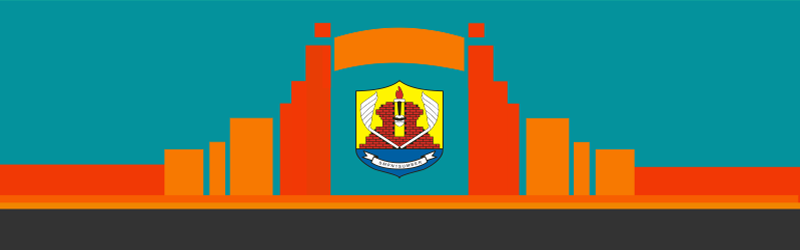
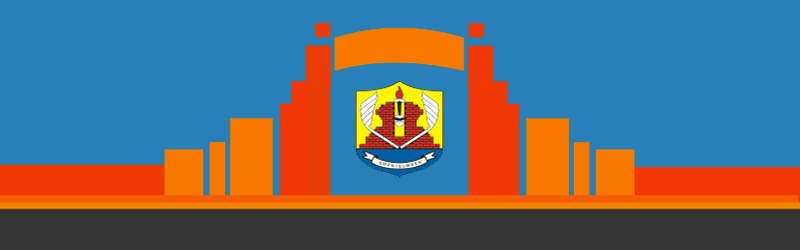
versi 1.5

diff --git a/style/style.css b/style/style.css
@@ -22,28 +22,20 @@ body {
 	padding-right: 15px;
 }
 .btn-info{
-	background-color: #04929c;
+	background-color: #2980b9;
 	border: 0px;
 	transition: 0.4s;
 }
 .btn-info:hover{
-	background-color: rgba(4,146,156,0.8);
+	background-color: rgba(41,128,185,0.8);
 	border: 0px;
 	transition: 0.4s;
 }
 .navbar-inverse{
-	background-color: #04929c;
+	background-color: #2980b9;
 	color: #fff;
 	border-radius: 0px;
 	border-color: transparent;
-}
-.navbar-inverse .navbar-nav > .active > a:hover{
-	background-color: #00695C;
-}
-.navbar-inverse .navbar-nav > .active > a,
-.navbar-inverse .navbar-nav > .active > a:focus{
-	background-color: #00695C;
-	color: #fff;
 }
 .navbar-inverse .navbar-nav > li > a,
 .navbar-inverse .navbar-brand{
@@ -70,11 +62,11 @@ body {
   background-color: #fff;
 }
 .navbar-inverse .navbar-nav .open .dropdown-menu li>a:hover{
-	background-color: #04929c;
-	color: #fff;
+	background-color: #fff; 
+	color: #2980b9;
 }
 .footer{
-	background-color: #04929c;
+	background-color: #2980b9;
 	color: #fff;
 	width: 100%;
 	display: inline-block;
@@ -87,6 +79,7 @@ body {
 }
 h4.title{
 	color: #494949;
+	font-weight: bolder;
 }
 article img{
 	width: 100%;
@@ -100,7 +93,7 @@ article p.post-body{
 
 article h4.post-title a{
 	display: block;
-	font-weight: bold;
+	font-weight: lighter;
 	text-decoration: none;
 	color: #494949;
 }
@@ -123,12 +116,12 @@ article h4.post-title a{
   line-height: 25px;
   text-decoration: none;
   color: #000;
-  border-left: 10px solid #04929c;
+  border-left: 10px solid #2980b9;
   transition: 0.4s;
 }
 .recent ul > li > a:hover{
   transition: 0.2s;
-  border-left:  20px solid #04929c;
+  border-left:  20px solid #2980b9;
 }
 .recent ul > li:hover{
   text-decoration: none;
@@ -168,7 +161,7 @@ ul.dropdown-menu > li > a{
 	list-style: none;
 }
 .glyphicon-calendar{
-	color: #04929c;
+	color: #2980b9;
 }
 .carousel-inner > .item > img {
 	width: 100%;
@@ -183,7 +176,8 @@ ul.dropdown-menu > li > a{
 	padding:0px 0px;
 }
 .carousel-caption{
-	background: #04929c;
+	background-color: rgba(41,128,185,0.8);
+	border-radius: 5px;
 }
 @media (max-width: 767px){
 	.carousel-caption{

diff --git a/assets/home.php b/assets/home.php
@@ -4,24 +4,24 @@
 			<div class="panel-body">
 				<h4 class="post-title"><a href="">Upacara pembukaan MPLS di SMPN 1 Sumber Tahun Pelajaran 2016-2017</a></h4>
 				<p><span class="glyphicon glyphicon-calendar"></span> Senin, 18-Jul-2016 </p>
-				<img src="style/img/MPLS-2016-850x450.jpg">
-				<p class="post-body">Sumber – 18/07/2016 Memasuki hari pertama sekolah-sekolah di Kabupaten Cirebon serentak menyelenggarakan Masa Pengenalan Lingkungan Sekolah (MPLS) pada tahun ajaran ... <a href="">Lihat Selengkapnya ></a></p>
+				<img class="img-thumbnail" src="style/img/MPLS-2016-850x450.jpg">
+				<p class="post-body">Sumber – 18/07/2016 Memasuki hari pertama sekolah-sekolah di Kabupaten Cirebon serentak menyelenggarakan Masa Pengenalan Lingkungan Sekolah (MPLS) pada tahun ajaran ... <br><a class="btn btn-sm btn-info" href="">Lihat Selengkapnya ></a></p>
 			</div>
 		</div>
 		<div class="post panel">
 			<div class="panel-body">
-				<h4 class="post-title">Pembagian Raport Kelas 7, 8 dan Rapat Orang Tua Siswa</h4>
+				<h4 class="post-title"><a href="">Pembagian Raport Kelas 7, 8 dan Rapat Orang Tua Siswa</a></h4>
 				<p><span class="glyphicon glyphicon-calendar"></span> Senin, 25-Jun-2016 </p>
-				<img src="style/img/pembagian-raport.jpg-850x450.jpg">
-				<p class="post-body">Sumber Kab.Cirebon – Sabtu, (25 Juni 2016) Seluruh sekolah mulai dari tingkat Sekolah Dasar (SD), Sekolah Menengah Pertama (SMP) dan Sekolah Menengah Atas (SMA) sederajat ... <a href="">Lihat Selengkapnya ></a></p>
+				<img class="img-thumbnail" src="style/img/pembagian-raport.jpg-850x450.jpg">
+				<p class="post-body">Sumber Kab.Cirebon – Sabtu, (25 Juni 2016) Seluruh sekolah mulai dari tingkat Sekolah Dasar (SD), Sekolah Menengah Pertama (SMP) dan Sekolah Menengah Atas (SMA) sederajat ... <br><a  class="btn btn-sm btn-info" href="">Lihat Selengkapnya ></a></p>
 			</div>
 		</div>
 		<div class="post panel">
 			<div class="panel-body">
-				<h4 class="post-title">SMPN 1 Sumber mengadakan Pesantren Kilat</h4>
+				<h4 class="post-title"><a href="">SMPN 1 Sumber mengadakan Pesantren Kilat</a></h4>
 				<p><span class="glyphicon glyphicon-calendar"></span> Senin, 16-Jun-2016 </p>
-				<img src="style/img/pesantren-kilat.jpg-600x300.jpg">
-				<p class="post-body">Dalam rangka meningkatkan keimanan serta ketaqwaan terhadap Tuhan Yang Maha Esa sekaligus bagian pembelajaran kepada siswa siswi dan bersamaan dengan suasana Bulan Ramadhan, SMP Negeri 1 Sumber belum lama ini mengadakan kegiatan Pesantren Kilat. Kegiatan ini dilakukan dari tanggal 13 – 16 Juni 2016 bekerja sama ... <a href="">Lihat Selengkapnya ></a></p>
+				<img class="img-thumbnail" src="style/img/pesantren-kilat.jpg-600x300.jpg">
+				<p class="post-body">Dalam rangka meningkatkan keimanan serta ketaqwaan terhadap Tuhan Yang Maha Esa sekaligus bagian pembelajaran kepada siswa siswi dan bersamaan dengan suasana Bulan Ramadhan ... <br><a class="btn btn-sm btn-info" href="">Lihat Selengkapnya ></a></p>
 			</div>
 		</div>
 	</article>

diff --git a/index.php b/index.php
@@ -1,7 +1,7 @@
 <?php require"assets/header.php" ?>
 	<div class="container-fluid content">
 		<div class="sideleft col-md-3">
-			<div class="panel">
+			<!-- <div class="panel">
 				<div class="panel-heading">
 					<h4 class="title"><b>LOGIN</b></h4>
 					</div>
@@ -19,12 +19,24 @@
 							</div>
 						</form>
 				</div>
+			</div> -->
+			<div class="panel">
+				<div class="panel-body">
+					<h4 class="title">AGENDA SEKOLAH</h4>
+				</div>
 			</div>
 			<div class="panel">
 				<div class="panel-body">
-					<h4 class="title"><b>KEPALA SEKOLAH</b></h4>
-					<img class="kepsek" src="style/img/kepsek.jpg" alt="">
-					<p>Sosok yang satu ini sudah tidak asing di lingkungan kampus SMP Negeri 1 Sumber. <b>Dr. H. Mashuri, M.Pd. </b> supel dalam berkomunikasi membuat beliau mudah dikenal baik oleh siswa-siswi maupun urang tua sisw <a href="#">Lihat selengkapnya ></a></p>
+					<h4 class="title">KEGIATAN TERBARU</h4>
+				</div>
+			</div>
+			<div class="panel">
+				<div class="panel-body">
+					<h4 class="title">KEPALA SEKOLAH</h4>
+					<div class="recent">
+						<img class="kepsek" src="style/img/kepsek.jpg" alt="">
+						<p>Sosok yang satu ini sudah tidak asing di lingkungan kampus SMP Negeri 1 Sumber. <b>Dr. H. Mashuri, M.Pd. </b> supel dalam berkomunikasi membuat beliau mudah dikenal baik oleh siswa-siswi maupun urang tua sisw <br><a href="#" class="btn btn-info">Lihat selengkapnya ></a></p>
+					</div>
 				</div>
 			</div>	
 		</div>
@@ -32,7 +44,7 @@
 		<div  class="sideright col-md-3">
 			<div class="panel">
 				<div class="panel-body">
-					<h4 class="title"><b>RECENT POST</b></h4>
+					<h4 class="title">ARTIKEL TERBARU</h4>
 					<div class="recent">
 						<ul>
 							<li><a href="#">Upacara pembukaan MPLS di SMPN 1 Sumber Tahun Pelajaran 2016-2017</a></li>
@@ -45,7 +57,7 @@
 			</div>
 			<div class="panel">
 				<div class="panel-body">
-					<h4 class="title"><b>RECENT COMMENT</b></h4>
+					<h4 class="title">KOMEN TERBARU</h4>
 					<div class="recent">
 						<ul>
 							<li><a href="#">Hai</a></li>

diff --git a/assets/footer.php b/assets/footer.php
@@ -1,10 +1,15 @@
 		<div class="content-footer col-xs-12 col-sm-12">
-			<h4 class="title-footer">Kontak Sekolah</h4>
-			<ul>
-				<li><b>Alamat : </b>Jl. Rd. Dewi Sartika No. 153 Sumber - Kab. Cirebon 45611</li>
-				<li><b>Telp : </b>0231 - 321028</li>
-				<li><b>E-Mail : </b>smpn1sumber_153@yahoo.com</li>
-			</ul>
+			<div class="col-sm-8">
+				<h4 class="title-footer">Kontak Sekolah</h4>
+				<ul>
+					<li><b>Alamat : </b>Jl. Rd. Dewi Sartika No. 153 Sumber - Kab. Cirebon 45611</li>
+					<li><b>Telp : </b>0231 - 321028</li>
+					<li><b>E-Mail : </b>smpn1sumber_153@yahoo.com</li>
+				</ul>
+			</div>
+			<div class="col-sm-4">
+				<h4 class="title-footer">Ini footer 2</h4>
+			</div>
 		</div>	
 		<footer class="footer col-md-12">
 			<div class="text-footer">
